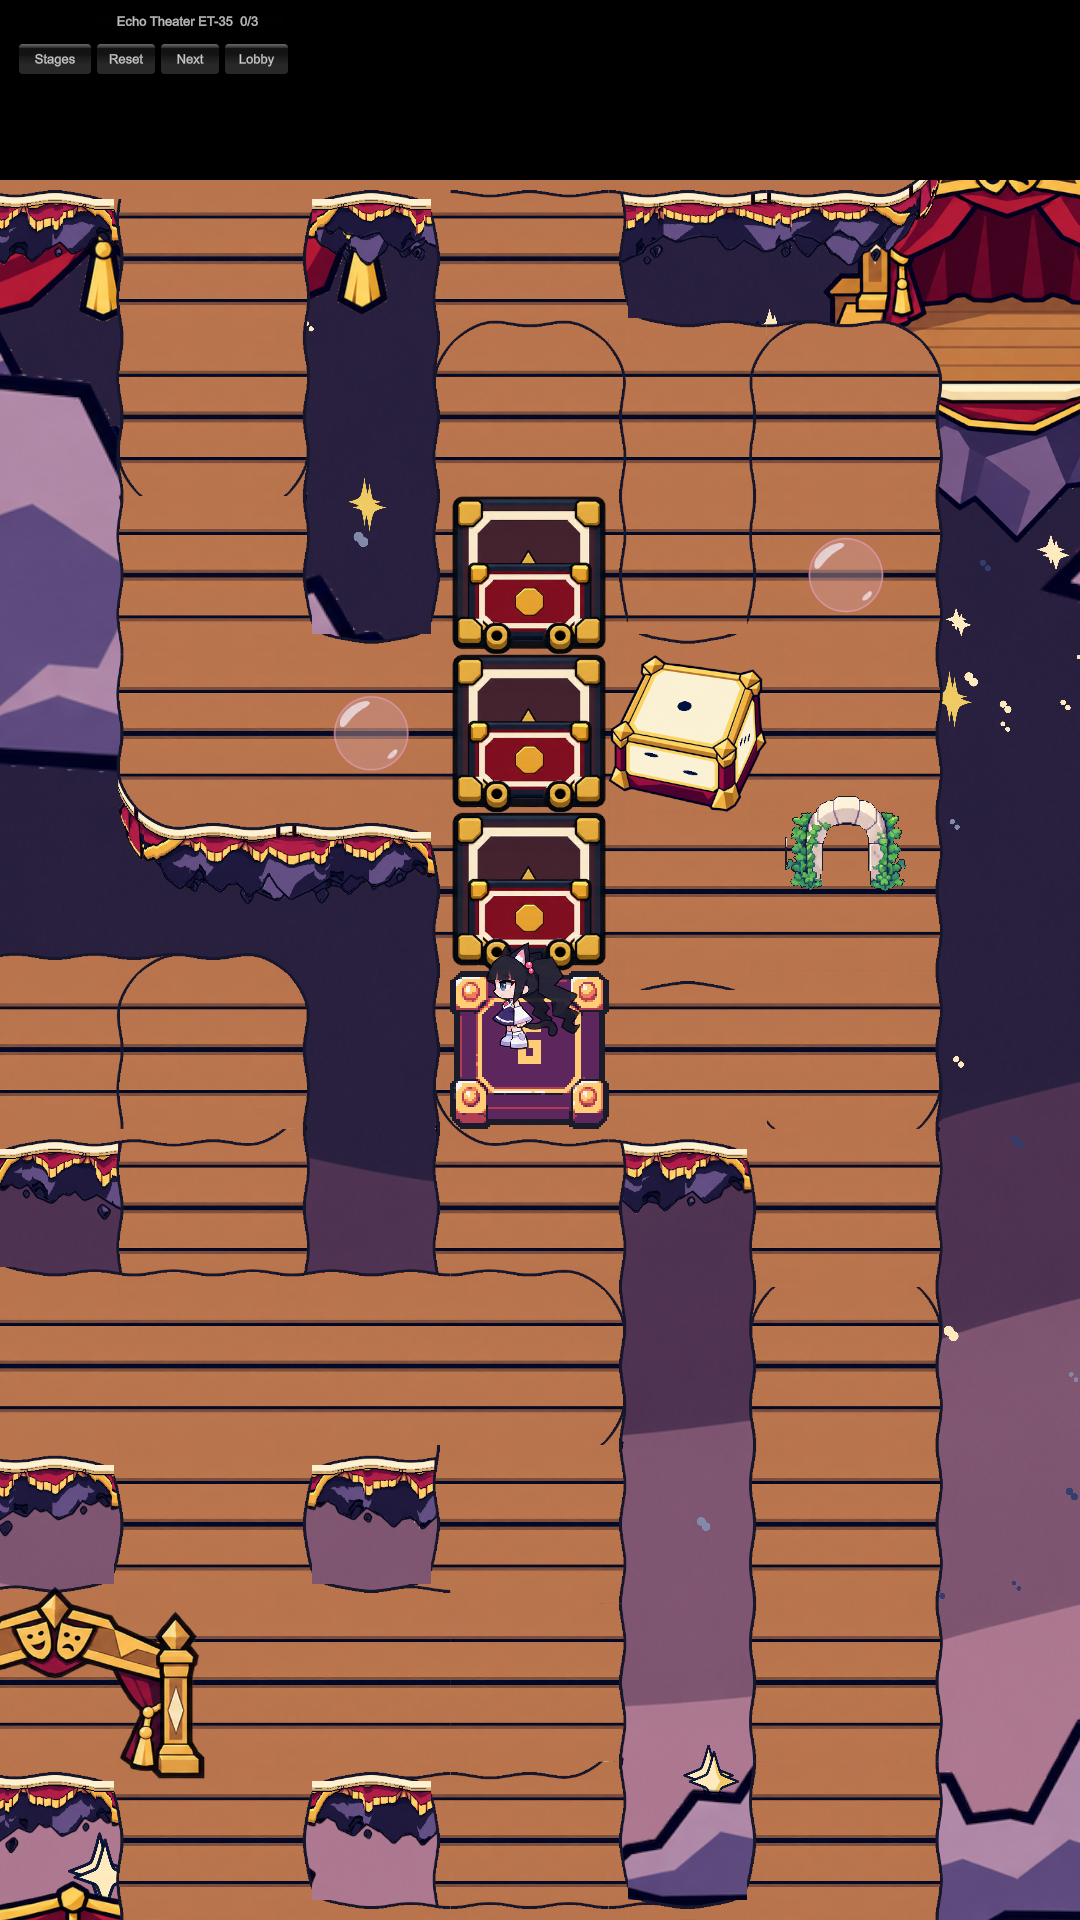
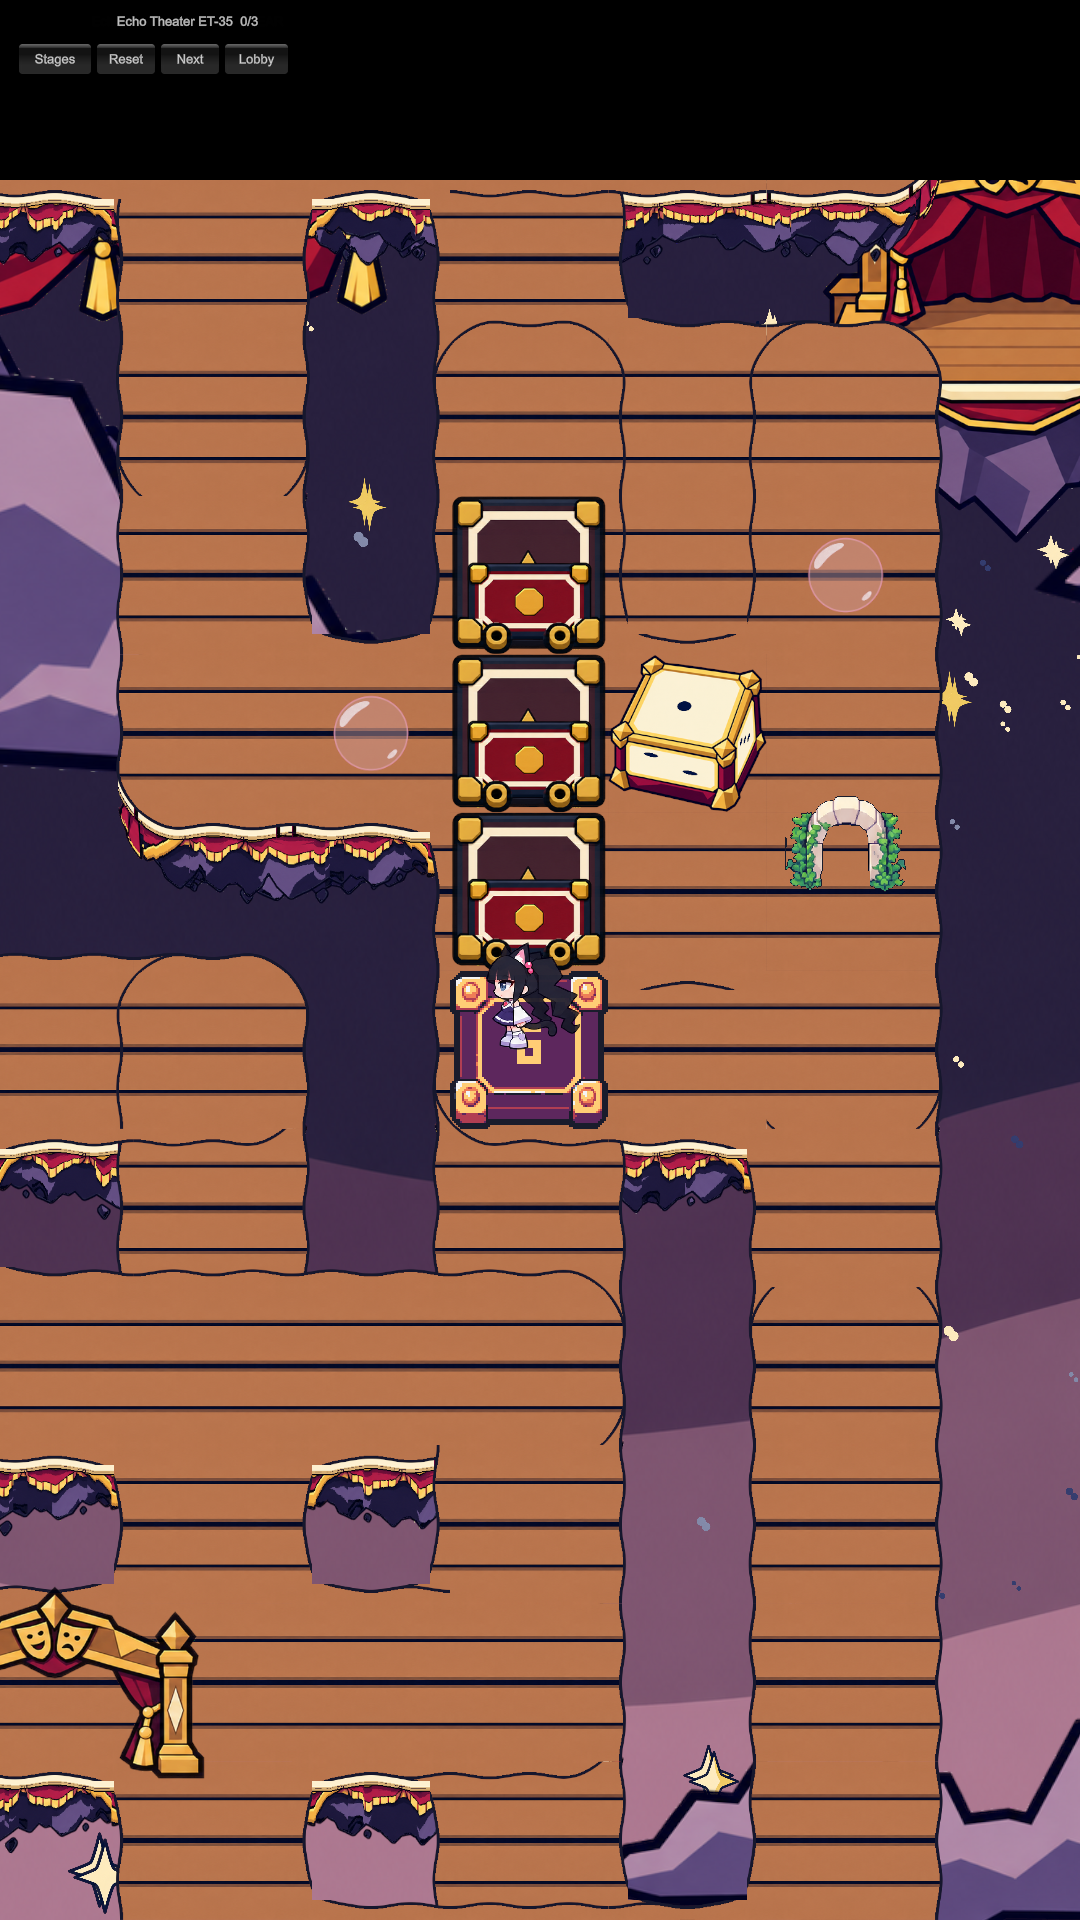
Remove floating decorations from Echo Theater V3 maps
Omit the requested border props and velvet_swag_lower_right when loading all 35 V3 stages. Preserve source art and other theater content. Unity 6000.3.8f1 compilation passed; EchoTheaterV3PlayTests 3/3 including 35-stage active hierarchy check. Refresh ET-03/ET-05 screenshots.

diff --git a/Assets/ANIMOL/Scripts/Tests/PlayMode/EchoTheaterV3PlayTests.cs b/Assets/ANIMOL/Scripts/Tests/PlayMode/EchoTheaterV3PlayTests.cs
@@ -1,5 +1,6 @@
 using System.Collections;
 using System.IO;
+using System.Linq;
 using ANIMOL.Puzzle;
 using NUnit.Framework;
 using UnityEditor;
@@ -27,6 +28,12 @@ namespace ANIMOL.Tests
                     controller.Load(entry.map);
                     Assert.That(controller.Session, Is.Not.Null, entry.stageId);
                     Assert.That(controller.Devices.MissingBindings, Is.Zero, entry.stageId);
+                    var names = controller.GetComponentsInChildren<Transform>()
+                        .Select(t => t.name).ToArray();
+                    foreach (var omitted in new[] { "Curtain lintel", "Left curtain", "Right curtain",
+                        "Static footlights", "velvet_swag_lower_right", "Left seats", "Right seats", "Organ" })
+                        Assert.That(names, Does.Not.Contain(omitted), entry.stageId + " " + omitted);
+                    Assert.That(names, Does.Contain("Sky base"), entry.stageId);
                     foreach (var die in entry.map.scenario.devices)
                     {
                         if (die.role != PrototypeRole.Dice || die.variant == "socket" || die.variant == "target") continue;

diff --git a/Assets/ANIMOL/Scripts/Runtime/PuzzlePrototypeController.cs b/Assets/ANIMOL/Scripts/Runtime/PuzzlePrototypeController.cs
@@ -56,7 +56,10 @@ namespace ANIMOL.Puzzle
                 StarwayRanchBackground.Create(presentation, cam, RuntimeMap.theme.starwayRanch);
             else
             {
-                var backdrop = new GameObject("Native pixel background").AddComponent<PuzzleBackdrop>(); backdrop.transform.SetParent(presentation, false); backdrop.Configure(RuntimeMap.theme, cam, RuntimeMap.cameraSettings);
+                var backdrop = new GameObject("Native pixel background").AddComponent<PuzzleBackdrop>();
+                backdrop.transform.SetParent(presentation, false);
+                backdrop.Configure(RuntimeMap.theme, cam, RuntimeMap.cameraSettings,
+                    RuntimeMap.scenario && RuntimeMap.scenario.echoTheaterV3Rules);
             }
             Devices = new GameObject("Committed devices").AddComponent<PuzzleDeviceView>(); Devices.transform.SetParent(presentation, false); Devices.Bind(Session, renderer, secondsPerCell); view.Present(Session); view.RestoreRanchNests(Session);
             var input = GetComponent<PuzzleSwipeInput>(); if (!input) input = gameObject.AddComponent<PuzzleSwipeInput>(); input.SetReceiver(RequestMove);

diff --git a/Assets/ANIMOL/Scripts/Runtime/PuzzleBackdrop.cs b/Assets/ANIMOL/Scripts/Runtime/PuzzleBackdrop.cs
@@ -13,7 +13,8 @@ namespace ANIMOL.Puzzle
         SpriteRenderer farImage;
         Vector2 lastSize;
         public static float UniformCover(Vector2 frame, Vector2 source) => Mathf.Max(frame.x / source.x, frame.y / source.y);
-        public void Configure(PuzzleTheme data, Camera gameplay, PuzzleCameraSettings settings)
+        public void Configure(PuzzleTheme data, Camera gameplay, PuzzleCameraSettings settings,
+            bool omitEchoTheaterV3Decor = false)
         {
             if (data.twilightCoast)
             {
@@ -32,7 +33,8 @@ namespace ANIMOL.Puzzle
                 var art = data.memorySkyTheater;
                 if (art.v02)
                 {
-                    gameObject.AddComponent<EchoTheaterV02Background>().Configure(art.v02, gameplay);
+                    gameObject.AddComponent<EchoTheaterV02Background>().Configure(art.v02, gameplay,
+                        omitEchoTheaterV3Decor);
                     return;
                 }
                 gameObject.AddComponent<SkyIslandBackdrop>().Configure(art.far, art.mid, art.near, art.compositor, gameplay); return;

diff --git a/Assets/ANIMOL/Scripts/Runtime/EchoTheaterV02Background.cs b/Assets/ANIMOL/Scripts/Runtime/EchoTheaterV02Background.cs
@@ -28,7 +28,7 @@ namespace ANIMOL.Puzzle
     {
         EchoTheaterV03BackgroundRig rig;
 
-        public void Configure(EchoTheaterV02Art art, Camera camera)
+        public void Configure(EchoTheaterV02Art art, Camera camera, bool omitV3FloatingDecor = false)
         {
             if (!art || !art.backgroundLayout || !camera) return;
             var layout = JsonUtility.FromJson<EchoTheaterV02BackgroundLayout>(art.backgroundLayout.text);
@@ -47,6 +47,7 @@ namespace ANIMOL.Puzzle
             var layers = new List<EchoTheaterV03BackgroundRig.Layer>(layout.layers.Length);
             foreach (var item in layout.layers)
             {
+                if (omitV3FloatingDecor && item.id == "velvet_swag_lower_right") continue;
                 var sprite = art.Find(item.file);
                 if (!sprite) throw new InvalidOperationException("Missing theater background sprite: " + item.file);
                 var position = new Vector3(camera.transform.position.x + item.positionWorld[0],

diff --git a/Assets/ANIMOL/Scripts/Runtime/EchoTheaterV02MapRenderer.cs b/Assets/ANIMOL/Scripts/Runtime/EchoTheaterV02MapRenderer.cs
@@ -76,7 +76,7 @@ namespace ANIMOL.Puzzle
                 Add(rail.File, "Catwalk " + rail.Kind,
                     new Vector3(origin.x + rail.XPixel / 256f, origin.y - rail.YPixel / 256f, 0),
                     rail.Layer);
-            PlaceExistingProps();
+            if (!map.scenario || !map.scenario.echoTheaterV3Rules) PlaceExistingProps();
         }
 
         void PlaceExistingProps()
